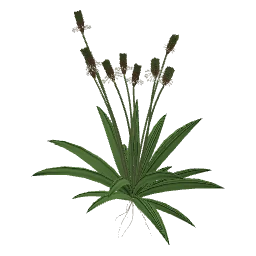
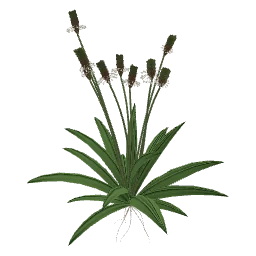
feat(templates): the plantain's rosette sits on a spiral
The 9–24 leaves no longer sit on a 4 mm crown stem that only anchored
them. `spiral` gives their points at the same turn and height and
`instance_from_points` places them. The size curve carries what the
tapering stub's thickness added, so the leaves keep their length.

Refs #490

diff --git a/docs/PLANT_TEMPLATES.md b/docs/PLANT_TEMPLATES.md
@@ -411,11 +411,11 @@ Family Plantaginaceae.
 
 **Structure:** A perennial rosette 10–45 cm tall. 8–25 leaves, lanceolate, 5–20 cm long and 1–3 cm wide, with 3–5 prominent parallel veins, an acute tip and a base that narrows into a reddish petiole. They stand up from the crown at an angle. The scapes are 1.5–3 times as long as the leaves, 1–2 mm thick. The spike is 1–3 cm long, ovoid to cylindrical. It flowers from the base up: below the ring of anthers the spike is brown, above it the buds are dark green.
 
-**Template:** one `random` with `once` (the habit) sets the number of leaves (9–24) and of scapes (4–14) and the length of the scapes, more of them shorter. The leaves sit on a crown 4 mm long and 2 mm thick, at the golden angle, 0.35 rad above flat for the outer ones to 1.25 rad for the inner ones, ± 0.25 rad per leaf, and the inner ones are the longest. A leaf is a `leaf` of one of four `shape` outlines, 6–8 times as long as wide: a long wedge into a narrow winged base, widest a little above the middle and a long drawn-out tip. `x_resolution 13` gives it columns of vertices along its length, so a `set_color` with `alpha` across into a curve draws dark parallel veins on the midrib and two on each side. Three `deform` nodes then fold it into a shallow V (curl 0.35), twist it by a `random` of ±0.7 rad and bend it outward and down by a `random` of −2 to −0.8 rad, more toward the tip, so the longer leaves arch over; the four outlines get four different twists and bends. 7–13 thin pale roots leave the crown 2.2–2.8 rad from upright, spread around it (`rotate y` with `spread`), wander a little by `noise` and bend down by `gravity`. They grow out first, each by the `growth` of its `stem`, `time × 2.2 − random per root 0–0.35`. The leaves come one after another, from the outside in: each grows to its size by `curve(time × 2.1 − 0.6 × alpha − random per leaf 0–0.35)`.
+**Template:** one `random` with `once` (the habit) sets the number of leaves (9–24) and of scapes (4–14) and the length of the scapes, more of them shorter. The leaves sit on the points of a `spiral` that rises 4 mm, at about the golden angle (2.4 rad), 0.35 rad above flat for the outer ones to 1.25 rad for the inner ones, ± 0.25 rad per leaf, and the inner ones are the longest. A leaf is a `leaf` of one of four `shape` outlines, 6–8 times as long as wide: a long wedge into a narrow winged base, widest a little above the middle and a long drawn-out tip. `x_resolution 13` gives it columns of vertices along its length, so a `set_color` with `alpha` across into a curve draws dark parallel veins on the midrib and two on each side. Three `deform` nodes then fold it into a shallow V (curl 0.35), twist it by a `random` of ±0.7 rad and bend it outward and down by a `random` of −2 to −0.8 rad, more toward the tip, so the longer leaves arch over; the four outlines get four different twists and bends. 7–13 thin pale roots leave the crown 2.2–2.8 rad from upright, spread around it (`rotate y` with `spread`), wander a little by `noise` and bend down by `gravity`. They grow out first, each by the `growth` of its `stem`, `time × 2.2 − random per root 0–0.35`. The leaves come one after another, from the outside in: each grows to its size by `curve(time × 2.1 − 0.6 × alpha − random per leaf 0–0.35)`.
 
 The scapes are a `stem` of 10–40 cm, leaned up to 0.35 rad and spread around the plant (`rotate y` with `spread`), with a little `noise` and `gravity`. Every scape opens at its own time: `phase = time × 1.6 − random per path 0–0.45` drives the `growth` of the scape, so it grows up from its base at its full length instead of stretching, then the spike, a `branch` of 1.4–3.2 cm at its tip: it appears whole as a small bud when the scape is up and swells to its size (its length and the size of its bracts follow a curve of the phase), and last `opening`, another curve of the same phase. On the spike 90 bracts (`instance`, `face` path) pick a green or a brown bract by their index, `(1.7 − 2.6 × alpha) × opening`, so the brown part rises from the base as the spike opens. The same value draws the ring of stamens where the green turns brown: 110 `branch` filaments on the spike, as long as the ring is wide there and drooping by `gravity`, each with a tiny white anther at its tip, a `revolve` that an `instance` with `lowest_instance 1` places along the filament and sizes by its `path_info` length.
 
-**Colours:** mid-green leaves with dark green veins, a brownish crown, the scapes reddish at the base, the spike dark green above and brown below, the filaments and anthers white.
+**Colours:** mid-green leaves with dark green veins, the scapes reddish at the base, the spike dark green above and brown below, the filaments and anthers white.
 
 Missing: the grooves of the scape, the hairs, the seed capsules.
 
